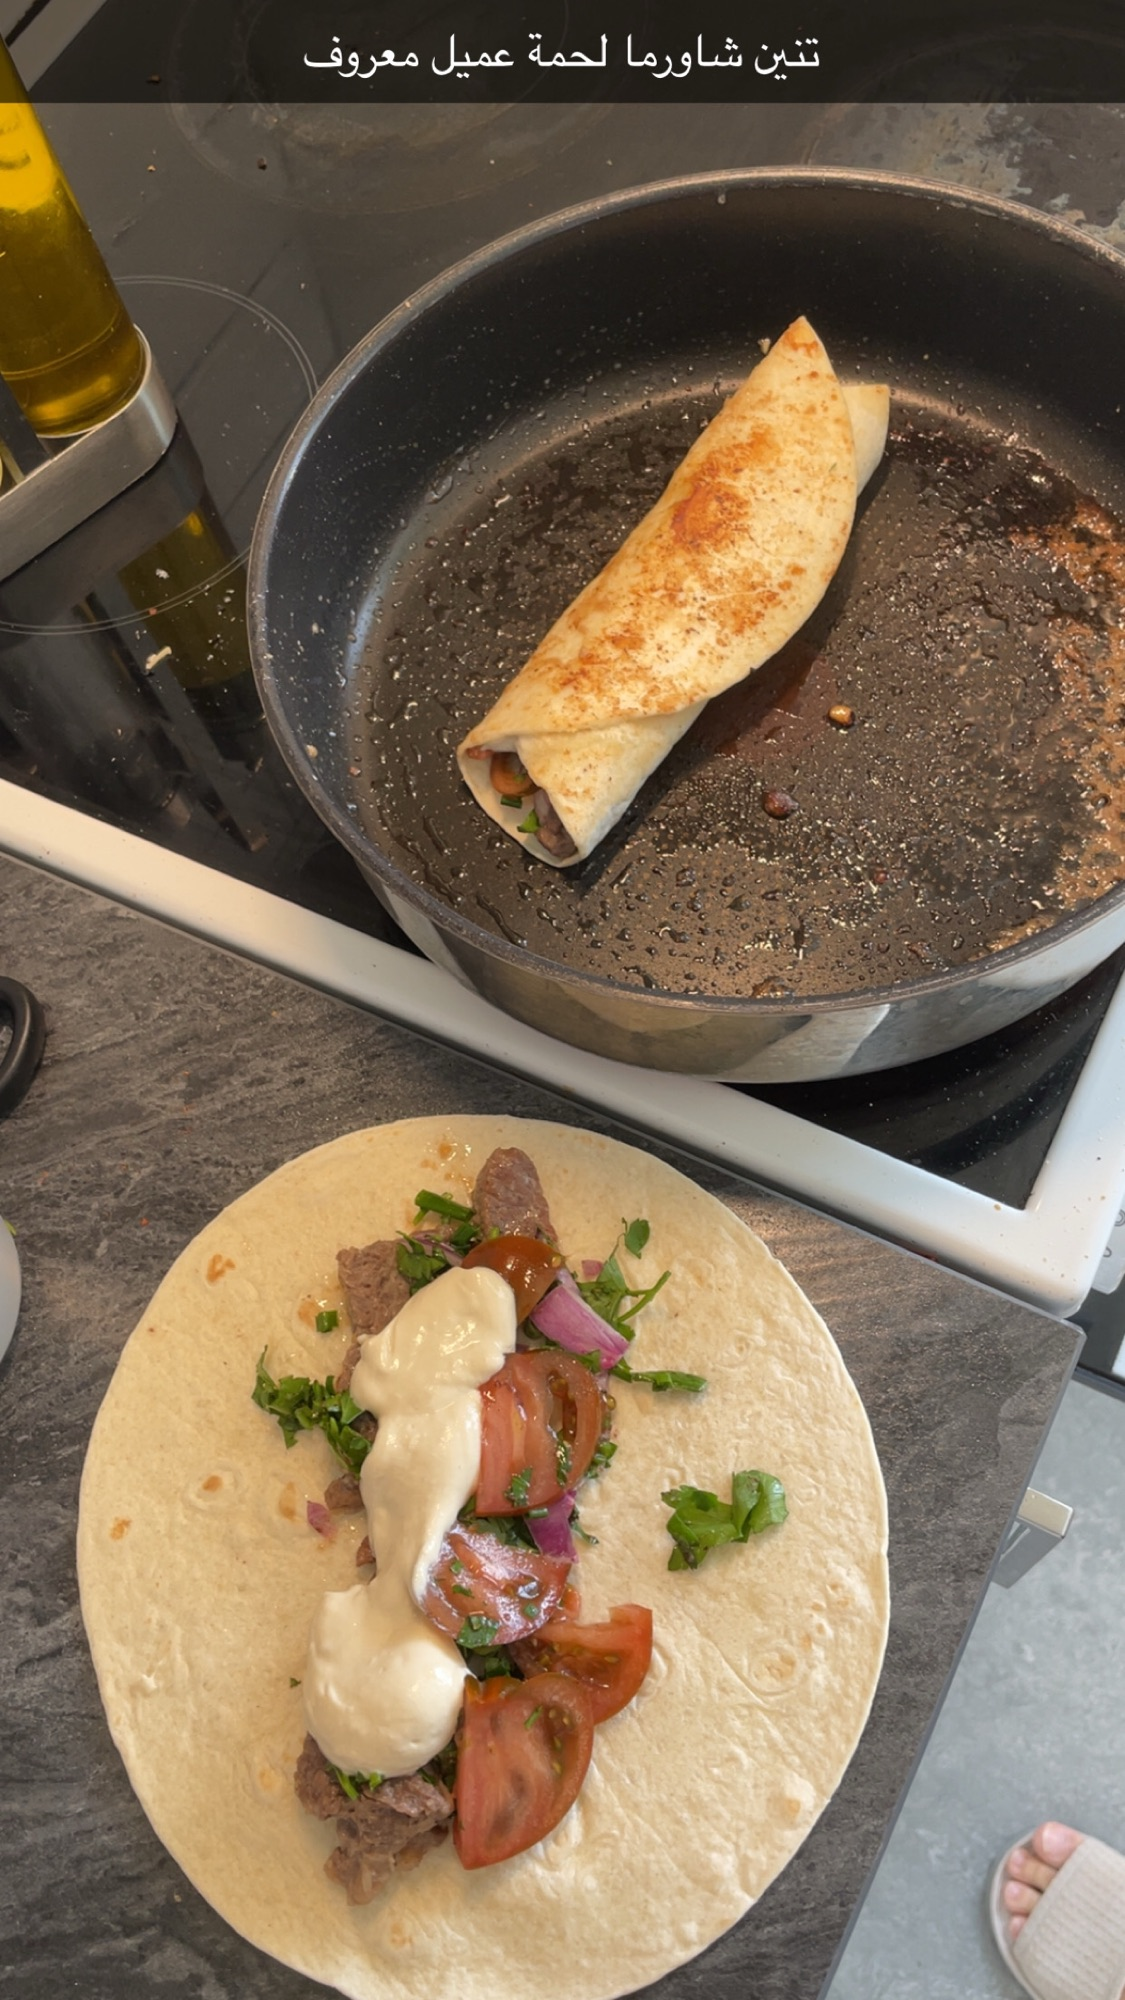
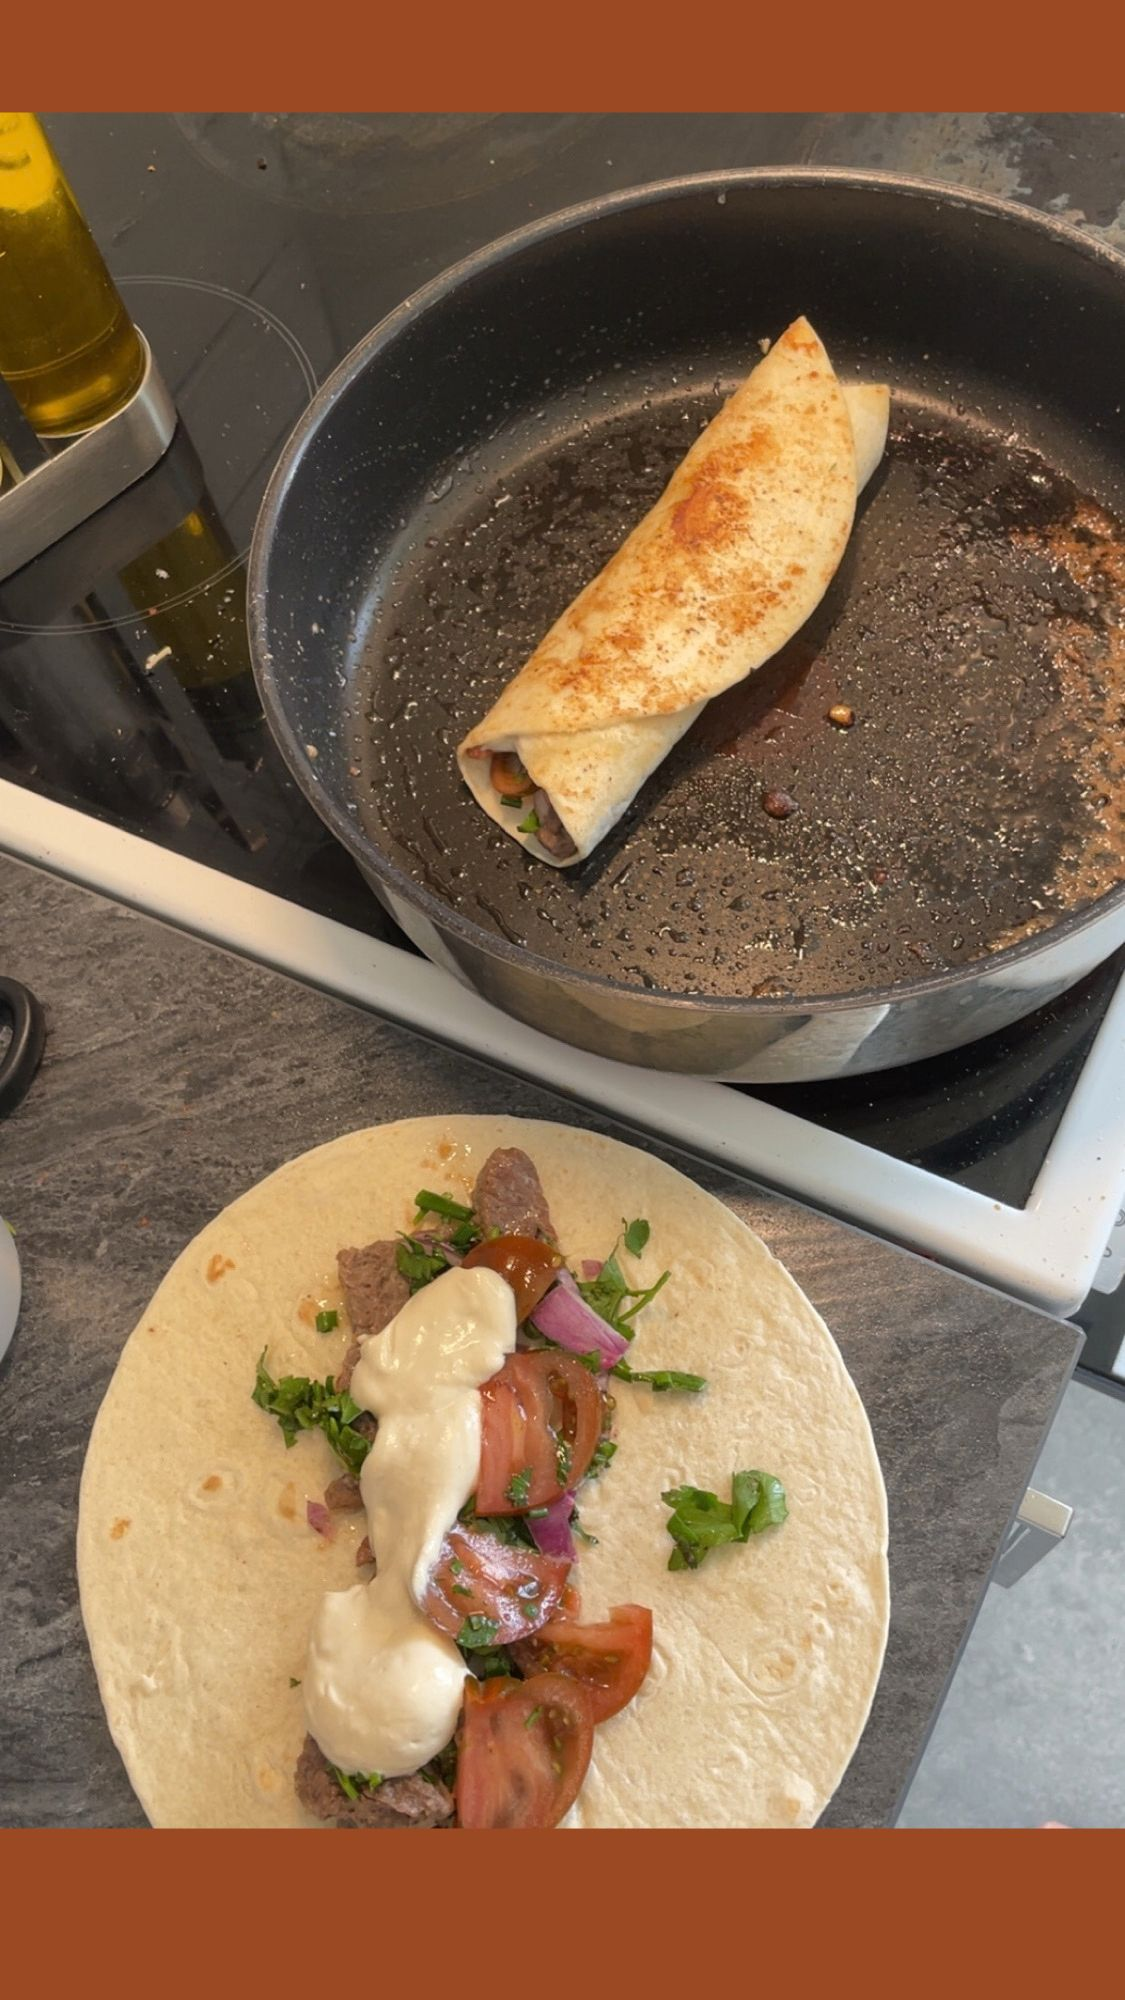
content: swap landing hero photo, touch up two dish photos
Hero.jpg (a ramen shot) replaces kabsa.jpg for the /cooking landing
hero — the old one had a phone clock overlay burned into the frame.
Also re-touched beef-shawarma.jpg and steak.jpg.

Changed region(s): [[0.0, 0.899, 1.0, 1.0], [0.0, 0.0, 1.0, 0.062]]

diff --git a/src/app/cooking/page.tsx b/src/app/cooking/page.tsx
@@ -18,8 +18,8 @@ export default function CookingLandingPage() {
         <section className="py-12 md:py-24">
           <div className="relative aspect-[16/9] w-full overflow-hidden rounded-[4px]">
             <Image
-              src="/images/cooking/kabsa.jpg"
-              alt="Kabsa, a Middle Eastern spiced rice dish"
+              src="/images/cooking/Hero.jpg"
+              alt="Ramen with egg and beef slices in a bowl on a wooden table"
               fill
               priority
               sizes="100vw"
